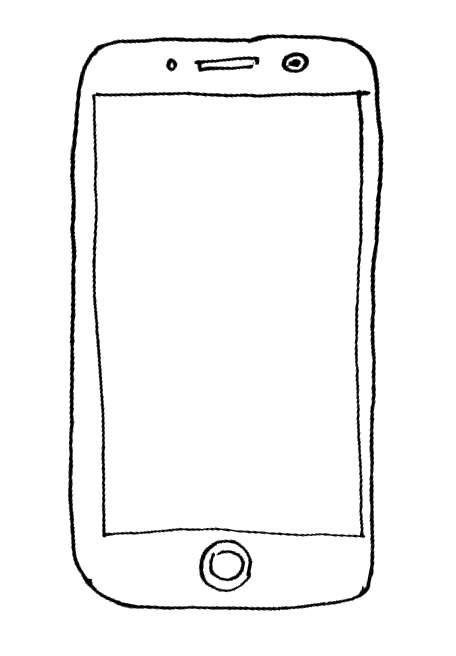
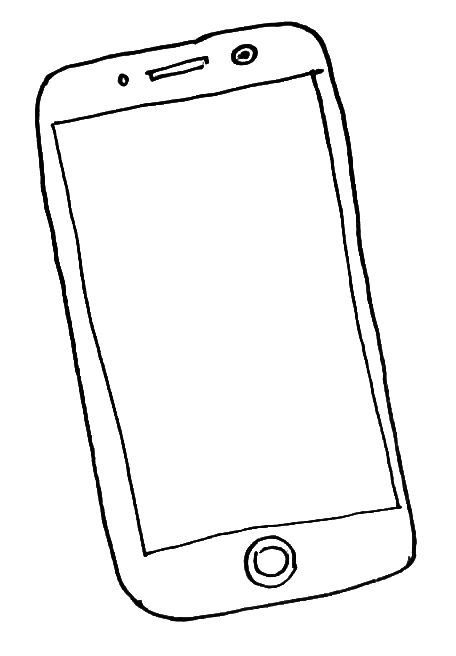
Fix error Telemovel

Changed region(s): [[0.0614, 0.0305, 0.9211, 0.9451]]

diff --git a/src/components/Telemovel/Telemovel.css b/src/components/Telemovel/Telemovel.css
@@ -4,44 +4,39 @@
     display: block;
     margin-top: 3%;
     margin-left: 20%;
-    rotate: -11deg;
 }
 
 #insta {
-    position: absolute;
-    top: 27%;
-    left: 33%;
-    width: 12%;
-    height: 12%;
-    cursor: pointer;
+    width: 13%;
+    height: auto;
+    display: block;
+    margin-top: 7%;
+    margin-left: 32%;
     rotate: -11deg;
 }
 
 #linkedin {
-    position: absolute;
-    top: 24%;
-    left: 47%;
     width: 12%;
-    height: 12%;
-    cursor: pointer;
+    height: auto;
+    display: block;
+    margin-top: -15%;
+    margin-left: 48%;
     rotate: -11deg;
 }
 
 #hora {
-    position: absolute;
-    top: 19%;
-    left: 30%;
-    width: 4%;
-    height: 4%;
+    height: auto;
+    display: block;
+    margin-top: -75%;
+    margin-left: 30%;
     rotate: -11deg;
 }
 
 #hora2 {
-    position: absolute;
-    top: 24%;
-    left: 42%;
-    width: 12%;
-    height: 12%;
+    height: auto;
+    display: block;
+    margin-top: -60%;
+    margin-left: 42%;
     rotate: -11deg;
 }
 

diff --git a/src/components/Telemovel/Telemovel.js b/src/components/Telemovel/Telemovel.js
@@ -24,7 +24,7 @@ const Telemovel = ({ data }) => {
   const formattedTime = `${currentTime.getHours().toString().padStart(2, '0')}:${currentTime.getMinutes().toString().padStart(2, '0')}`;
 
   return (
-    <div id="image-container" onMouseOver={handleMouseOver} onMouseOut={handleMouseOut}>
+    <div onMouseOver={handleMouseOver} onMouseOut={handleMouseOut}>
       <img src={data.png} alt="telemovel" id="telemovel" />
       {showSocialMedia ? (<h6 alt="hora" id="hora">{formattedTime}</h6>) : null}
       <div>

diff --git a/src/App.css b/src/App.css
@@ -7,12 +7,6 @@
     align-items: center;
 }
 
-.img-responsive {
-    max-width: 70%;
-    height: auto;
-    margin-left: 75px;
-}
-
 .grafiti {
     font-size: 6vw !important;
     bottom: 0;
@@ -32,10 +26,6 @@
     position: sticky;
     align-self: start;
     top: 0px;
-}
-
-#image-container {
-    position: relative;
 }
 
 @media (max-width: 768px) {
